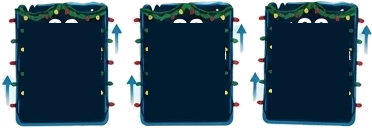
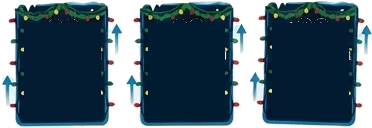
Natal/estrada: placar sem restos brancos, touca fixa na cabine, caminhao sai da tela e volta sem inverter, cena escala com zoom/TV
Claude-Session: https://claude.ai/code/session_01SUGn5WVVFd7a8k3TFNFXTp

Changed region(s): [[0.4435, 0.125, 0.5618, 0.1875], [0.7984, 0.125, 0.8871, 0.1875], [0.1183, 0.125, 0.207, 0.1875]]

diff --git a/web/inicio.js b/web/inicio.js
@@ -56,14 +56,13 @@ function estradaCaminhao() {
   est.innerHTML = '<div class="he-chao"></div>' + `` + (natal ? `<div class="he-radar"><div class="he-sway"><div class="he-r1"></div><i class="lz" style="left:54.9%;top:77.5%;animation-delay:0.00s"></i><i class="lz" style="left:46.9%;top:82.8%;animation-delay:0.37s"></i><i class="lz" style="left:36.3%;top:81.4%;animation-delay:0.74s"></i><i class="lz" style="left:31.2%;top:74.3%;animation-delay:1.11s"></i><i class="lz" style="left:35.4%;top:66.9%;animation-delay:1.48s"></i><i class="lz" style="left:45.7%;top:64.7%;animation-delay:0.25s"></i><i class="lz" style="left:54.4%;top:69.4%;animation-delay:0.62s"></i><img class="he-r2" src="natal-radar-flash.png" alt=""></div></div><div class="he-placar"><div class="pl-bg"></div><div class="pl-bg pl-b"></div><div class="pl-bg pl-c"></div><span class="he-n">80</span><i class="he-u">KM/H</i><span class="he-g g1">80</span><span class="he-g g2">80</span></div>` : `<div class="he-radar"><img class="he-r1" src="radar-1.png" alt=""><img class="he-r2" src="radar-2.png" alt=""></div><div class="he-placar"><img src="placar-vazio-verde.png" alt=""><span class="he-n">80</span><i class="he-u">KM/H</i><span class="he-g g1">80</span><span class="he-g g2">80</span></div>`) + `` + '<div class="he-truck">' + `<svg viewBox="0 0 1240 420" aria-label="Carreta sider da Fatran"><image class="cam-img" href="carreta-dir.png" x="0" y="0" width="1240" height="420"/><g class="rodaw" data-x="205" transform="translate(205 364)"><g class="roda"><circle r="28.5" fill="#a9b4bb"/><circle r="26" fill="#9ea9b1"/><circle r="24" fill="#a9b4bb"/><circle cx="21.5" cy="0.0" r="3.4" fill="#1c2b38"/><circle cx="15.2" cy="15.2" r="3.4" fill="#1c2b38"/><circle cx="0.0" cy="21.5" r="3.4" fill="#1c2b38"/><circle cx="-15.2" cy="15.2" r="3.4" fill="#1c2b38"/><circle cx="-21.5" cy="0.0" r="3.4" fill="#1c2b38"/><circle cx="-15.2" cy="-15.2" r="3.4" fill="#1c2b38"/><circle cx="-0.0" cy="-21.5" r="3.4" fill="#1c2b38"/><circle cx="15.2" cy="-15.2" r="3.4" fill="#1c2b38"/><circle r="14" fill="#1a2a39"/></g></g><g class="rodaw" data-x="319" transform="translate(319 364)"><g class="roda"><circle r="28.5" fill="#a9b4bb"/><circle r="26" fill="#9ea9b1"/><circle r="24" fill="#a9b4bb"/><circle cx="21.5" cy="0.0" r="3.4" fill="#1c2b38"/><circle cx="15.2" cy="15.2" r="3.4" fill="#1c2b38"/><circle cx="0.0" cy="21.5" r="3.4" fill="#1c2b38"/><circle cx="-15.2" cy="15.2" r="3.4" fill="#1c2b38"/><circle cx="-21.5" cy="0.0" r="3.4" fill="#1c2b38"/><circle cx="-15.2" cy="-15.2" r="3.4" fill="#1c2b38"/><circle cx="-0.0" cy="-21.5" r="3.4" fill="#1c2b38"/><circle cx="15.2" cy="-15.2" r="3.4" fill="#1c2b38"/><circle r="14" fill="#1a2a39"/></g></g><g class="rodaw" data-x="434" transform="translate(434 364)"><g class="roda"><circle r="28.5" fill="#a9b4bb"/><circle r="26" fill="#9ea9b1"/><circle r="24" fill="#a9b4bb"/><circle cx="21.5" cy="0.0" r="3.4" fill="#1c2b38"/><circle cx="15.2" cy="15.2" r="3.4" fill="#1c2b38"/><circle cx="0.0" cy="21.5" r="3.4" fill="#1c2b38"/><circle cx="-15.2" cy="15.2" r="3.4" fill="#1c2b38"/><circle cx="-21.5" cy="0.0" r="3.4" fill="#1c2b38"/><circle cx="-15.2" cy="-15.2" r="3.4" fill="#1c2b38"/><circle cx="-0.0" cy="-21.5" r="3.4" fill="#1c2b38"/><circle cx="15.2" cy="-15.2" r="3.4" fill="#1c2b38"/><circle r="14" fill="#1a2a39"/></g></g><g class="rodaw" data-x="741" transform="translate(741 364)"><g class="roda"><circle r="28.5" fill="#a9b4bb"/><circle r="26" fill="#9ea9b1"/><circle r="24" fill="#a9b4bb"/><circle cx="21.5" cy="0.0" r="3.4" fill="#1c2b38"/><circle cx="15.2" cy="15.2" r="3.4" fill="#1c2b38"/><circle cx="0.0" cy="21.5" r="3.4" fill="#1c2b38"/><circle cx="-15.2" cy="15.2" r="3.4" fill="#1c2b38"/><circle cx="-21.5" cy="0.0" r="3.4" fill="#1c2b38"/><circle cx="-15.2" cy="-15.2" r="3.4" fill="#1c2b38"/><circle cx="-0.0" cy="-21.5" r="3.4" fill="#1c2b38"/><circle cx="15.2" cy="-15.2" r="3.4" fill="#1c2b38"/><circle r="14" fill="#1a2a39"/></g></g><g class="rodaw" data-x="868" transform="translate(868 364)"><g class="roda"><circle r="28.5" fill="#a9b4bb"/><circle r="26" fill="#9ea9b1"/><circle r="24" fill="#a9b4bb"/><circle cx="21.5" cy="0.0" r="3.4" fill="#1c2b38"/><circle cx="15.2" cy="15.2" r="3.4" fill="#1c2b38"/><circle cx="0.0" cy="21.5" r="3.4" fill="#1c2b38"/><circle cx="-15.2" cy="15.2" r="3.4" fill="#1c2b38"/><circle cx="-21.5" cy="0.0" r="3.4" fill="#1c2b38"/><circle cx="-15.2" cy="-15.2" r="3.4" fill="#1c2b38"/><circle cx="-0.0" cy="-21.5" r="3.4" fill="#1c2b38"/><circle cx="15.2" cy="-15.2" r="3.4" fill="#1c2b38"/><circle r="14" fill="#1a2a39"/></g></g><g class="rodaw" data-x="1080" transform="translate(1080 364)"><g class="roda"><circle r="28.5" fill="#a9b4bb"/><circle r="26" fill="#9ea9b1"/><circle r="24" fill="#a9b4bb"/><circle cx="21.5" cy="0.0" r="3.4" fill="#1c2b38"/><circle cx="15.2" cy="15.2" r="3.4" fill="#1c2b38"/><circle cx="0.0" cy="21.5" r="3.4" fill="#1c2b38"/><circle cx="-15.2" cy="15.2" r="3.4" fill="#1c2b38"/><circle cx="-21.5" cy="0.0" r="3.4" fill="#1c2b38"/><circle cx="-15.2" cy="-15.2" r="3.4" fill="#1c2b38"/><circle cx="-0.0" cy="-21.5" r="3.4" fill="#1c2b38"/><circle cx="15.2" cy="-15.2" r="3.4" fill="#1c2b38"/><circle r="14" fill="#1a2a39"/></g></g></svg>` + (natal ? '<div class="he-touca"></div>' : '') + '<div class="he-sombra"></div></div>';
   const tr = est.querySelector(".he-truck"), img = est.querySelector(".cam-img"), rodasw = [...est.querySelectorAll(".rodaw")], rodas = [...est.querySelectorAll(".roda")];
   const reduz = window.matchMedia && matchMedia("(prefers-reduced-motion: reduce)").matches;
-  let x = 0, dir = 1, pausa = 0, ang = 0, t0 = performance.now(), ultimoFlash = 0, frenteAnt = null;
+  let x = -400, escAnt = 0, dir = 1, pausa = 0, ang = 0, t0 = performance.now(), ultimoFlash = 0, frenteAnt = null;
   const radar = est.querySelector(".he-radar"), placar = est.querySelector(".he-placar");
   const SEQ = [80, 100, 80, 200]; let k = 0; // alterna: 80 (verde, tudo certo), 100 (vermelho), 80, 200 (vermelho)
   const reinicia = (el, c) => { el.classList.remove(c); void el.getBoundingClientRect(); el.classList.add(c); };
   const pImg = placar.querySelector("img"), pN = placar.querySelector(".he-n"), pG = [...placar.querySelectorAll(".he-g")];
   let contagem = null;
   function flagrante() {
-    placar.classList.toggle("esq", dir < 0); // o placar fica do lado de onde o caminhão já saiu
     const alvo = SEQ[k % SEQ.length], verde = alvo <= 80; k++;
     if (pImg) pImg.src = verde ? "placar-vazio-verde.png" : "placar-vazio-vermelho.png";
     placar.classList.toggle("verde", verde); placar.classList.toggle("vermelho", !verde);
@@ -82,19 +81,19 @@ function estradaCaminhao() {
   function quadro(t) {
     if (!est.isConnected || S.tela !== "inicio") return; // a tela mudou: encerra o laço
     const dt = Math.min(0.05, (t - t0) / 1000); t0 = t;
-    const w = Math.max(200, Math.min(340, est.clientWidth * 0.3)); tr.style.width = w + "px";
-    const max = Math.max(0, est.clientWidth - w);
+    const cw = est.clientWidth, esc = Math.max(0.85, Math.min(2.4, cw / 1100)); // a cena escala com a largura (zoom do navegador / TV grande)
+    if (esc !== escAnt) { escAnt = esc; est.style.setProperty("--s", esc.toFixed(3)); }
+    const w = Math.round(270 * esc); tr.style.width = w + "px";
     if (!reduz) {
       if (pausa > 0) pausa -= dt;
       else {
-        const freio = Math.max(0.18, Math.min(1, (dir > 0 ? max - x : x) / 140)), arranque = Math.min(1, (dir > 0 ? x : max - x) / 60 + 0.25);
-        const v = 100 * freio * arranque; x += dir * v * dt; ang += dir * v * dt / (51 * w / 1240) * 57.3;
-        if (dir > 0 && x >= max - 0.5) { x = max; pausa = 1.4; dir = -1; virar(); }
-        else if (dir < 0 && x <= 0.5) { x = 0; pausa = 1.4; dir = 1; virar(); }
+        const v = Math.max(110, cw / 9) * (x < 0 ? 1 : Math.min(1, x / 60 + 0.35)); // mesma duração de travessia em qualquer tela
+        x += v * dt; ang += v * dt / (51 * w / 1240) * 57.3;
+        if (x >= cw + 20) { x = -w - 20; pausa = 1.2; frenteAnt = null; } // sai da tela pela direita e volta pela esquerda, sempre de frente
       }
-    }
-    const bob = !reduz && pausa <= 0 ? Math.sin(t / 90) * 0.7 : 0;
-    const rx = est.clientWidth * 0.58 + 36, frente = x + w * (dir > 0 ? 0.98 : 0.02); // posição do radar e da frente do caminhão
+    } else x = Math.max(0, (cw - w) / 2);
+    const bob = !reduz && pausa <= 0 ? Math.sin(t / 90) * 0.7 * esc : 0;
+    const rx = cw * 0.58 + 36 * esc, frente = x + w * 0.98; // posição do radar e da frente do caminhão
     if (!reduz && frenteAnt !== null && (frenteAnt - rx) * (frente - rx) <= 0 && frenteAnt !== frente && t - ultimoFlash > 3000) { ultimoFlash = t; flagrante(); }
     frenteAnt = frente;
     tr.style.transform = "translate(" + x.toFixed(1) + "px," + bob.toFixed(2) + "px)";

diff --git a/web/style.css b/web/style.css
@@ -354,27 +354,27 @@ body.tv .tv-bar,body.tv .resumo{zoom:var(--tvz,1)}
 body.tv .resumo{top:var(--tvbar,52px)}
 
 /* estrada com a carreta, logo acima da faixa azul do rodapé */
-.hub-estrada{--rd-linha:#12263A;--asfalto:#2b3744;--faixa:#cfe3ee;--sider:#fff;--sider-linha:#c9dbe6;position:relative;z-index:1;width:100%;height:136px;overflow:hidden;margin-top:auto;flex:0 0 auto}
+.hub-estrada{--rd-linha:#12263A;--asfalto:#2b3744;--faixa:#cfe3ee;--sider:#fff;--sider-linha:#c9dbe6;position:relative;z-index:1;width:100%;height:calc(136px*var(--s,1));overflow:hidden;margin-top:auto;flex:0 0 auto}
 .hub-estrada+.hub-rodape{margin-top:0}
 html[data-tema="dark"] .hub-estrada{--rd-linha:#8fc3df;--asfalto:#07111a;--faixa:#3a5266;--sider:#e9f2f8;--sider-linha:#b4c8d6}
-.he-chao{position:absolute;left:0;right:0;bottom:0;height:36px;background:var(--asfalto)}
+.he-chao{position:absolute;left:0;right:0;bottom:0;height:calc(36px*var(--s,1));zoom:1;background:var(--asfalto)}
 .he-chao::before{content:"";position:absolute;left:0;right:0;top:0;height:3px;background:#1D9AD5}
-.he-chao::after{content:"";position:absolute;left:0;right:0;top:17px;height:3px;background:repeating-linear-gradient(90deg,var(--faixa) 0 30px,transparent 30px 60px)}
-.he-truck{position:absolute;left:0;bottom:18px;width:260px;will-change:transform}
+.he-chao::after{content:"";position:absolute;left:0;right:0;top:calc(17px*var(--s,1));height:calc(3px*var(--s,1));background:repeating-linear-gradient(90deg,var(--faixa) 0 calc(30px*var(--s,1)),transparent calc(30px*var(--s,1)) calc(60px*var(--s,1)))}
+.he-truck{position:absolute;left:0;bottom:calc(18px*var(--s,1));width:260px;will-change:transform}
 .he-truck svg{display:block;width:100%;height:auto;overflow:visible}
 .he-truck .roda{transform-box:fill-box;transform-origin:center}
-.he-sombra{position:absolute;left:4%;right:4%;bottom:-6px;height:8px;border-radius:50%;background:#0006;filter:blur(4px)}
+.he-sombra{position:absolute;left:4%;right:4%;bottom:calc(-6px*var(--s,1));height:calc(8px*var(--s,1));border-radius:50%;background:#0006;filter:blur(4px)}
 @media (max-height:820px) and (min-width:881px){.hub-rodape{padding:12px 40px}.hub-dica{margin-top:8px}.hub-legenda{min-height:100px}}
 
 /* radar de brincadeira: alterna 80 km/h (verde) e 100 km/h (vermelho, com flash e câmera) */
-.he-radar{position:absolute;left:58%;bottom:34px;width:81px;height:88px;z-index:2;pointer-events:none}
+.he-radar{zoom:var(--s,1);position:absolute;left:58%;bottom:34px;width:81px;height:88px;z-index:2;pointer-events:none}
 .he-radar img{position:absolute;left:0;top:0;width:100%;height:100%;display:block}
 .he-r2{opacity:0}
 .he-radar.flash .he-r2{animation:herad2 1.3s ease-out}
 .he-radar.flash .he-r1{animation:herad1 1.3s ease-out}
 @keyframes herad2{0%{opacity:1}80%{opacity:1}100%{opacity:0}}
 @keyframes herad1{0%{opacity:0}80%{opacity:0}100%{opacity:1}}
-.he-placar{--H:84px;--c:#6dff96;position:absolute;left:calc(58% + 92px);bottom:38px;height:var(--H);opacity:0;z-index:3;pointer-events:none;font-family:Inter,system-ui,-apple-system,"Segoe UI",Roboto,sans-serif;font-weight:800;color:var(--c);font-variant-numeric:tabular-nums}
+.he-placar{zoom:var(--s,1);--H:84px;--c:#6dff96;position:absolute;left:calc(58% + 92px);bottom:38px;height:var(--H);opacity:0;z-index:3;pointer-events:none;font-family:Inter,system-ui,-apple-system,"Segoe UI",Roboto,sans-serif;font-weight:800;color:var(--c);font-variant-numeric:tabular-nums}
 .he-placar.vermelho{--c:#ff6a6a}
 .he-placar img{display:block;height:100%;width:auto}
 .he-placar>span,.he-placar>i{position:absolute;transform:translate(-50%,-50%);white-space:nowrap;line-height:1;font-style:normal}
@@ -388,7 +388,7 @@ html[data-tema="dark"] .hub-estrada{--rd-linha:#8fc3df;--asfalto:#07111a;--faixa
 @media (max-width:880px){.he-radar{width:64px;height:69px}.he-placar{--H:68px;left:calc(58% + 72px)}.he-placar.esq{left:calc(58% - 58px)}}
 
 /* ---------- tema de Natal (de 20/11 a 06/01): movimentos suaves, sem trocar de quadro ---------- */
-.hub-estrada.natal{height:158px}
+.hub-estrada.natal{height:calc(158px*var(--s,1))}
 .natal .he-radar{--rw:95px;width:var(--rw);height:96px;left:calc(58% - 41px);bottom:33px}
 .he-sway{position:absolute;inset:0;transform-origin:43% 98%;animation:hesway 3.2s ease-in-out infinite alternate}
 @keyframes hesway{0%{transform:rotate(-2.2deg) translateY(0)}50%{transform:rotate(0deg) translateY(-1px)}100%{transform:rotate(2.2deg) translateY(0)}}
@@ -406,9 +406,8 @@ html[data-tema="dark"] .hub-estrada{--rd-linha:#8fc3df;--asfalto:#07111a;--faixa
 @keyframes hepl{0%,100%{opacity:0}50%{opacity:1}}
 .natal .he-n{left:50%;top:27%}.natal .he-u{left:69%;top:44%;font-size:calc(var(--H)*.075)}.natal .he-g{left:51%}
 .natal .g1{top:54%}.natal .g2{top:74%}
-.he-touca{position:absolute;width:12%;aspect-ratio:110/92;left:83%;top:-20%;background:url(natal-touca-1.png) 0 0/100% 100% no-repeat;transform-origin:30% 95%;animation:hetouca 1.8s ease-in-out infinite alternate;z-index:1}
+.he-touca{position:absolute;width:12%;aspect-ratio:110/92;left:83%;top:-20%;background:url(natal-touca-1.png) 0 0/100% 100% no-repeat;z-index:1}
 @keyframes hetouca{0%{transform:rotate(-5deg)}100%{transform:rotate(4deg) translateY(-1px)}}
-.he-truck.esq .he-touca{left:5%;scale:-1 1}
 .hub-touca{position:absolute;right:-6px;top:-34px;width:78px;aspect-ratio:110/92;background:url(natal-touca-1.png) 0 0/100% 100% no-repeat;pointer-events:none;transform-origin:25% 90%;animation:hetoucal 2.6s ease-in-out infinite alternate}
 @keyframes hetoucal{0%{transform:rotate(8deg)}100%{transform:rotate(19deg)}}
 @media (max-width:880px){.natal .he-radar{--rw:78px;height:79px;left:calc(58% - 34px)}.natal .he-placar{--H:70px;left:calc(58% + 46px)}.natal .he-placar.esq{left:calc(58% - 80px)}.hub-touca{width:60px;top:-26px}}
